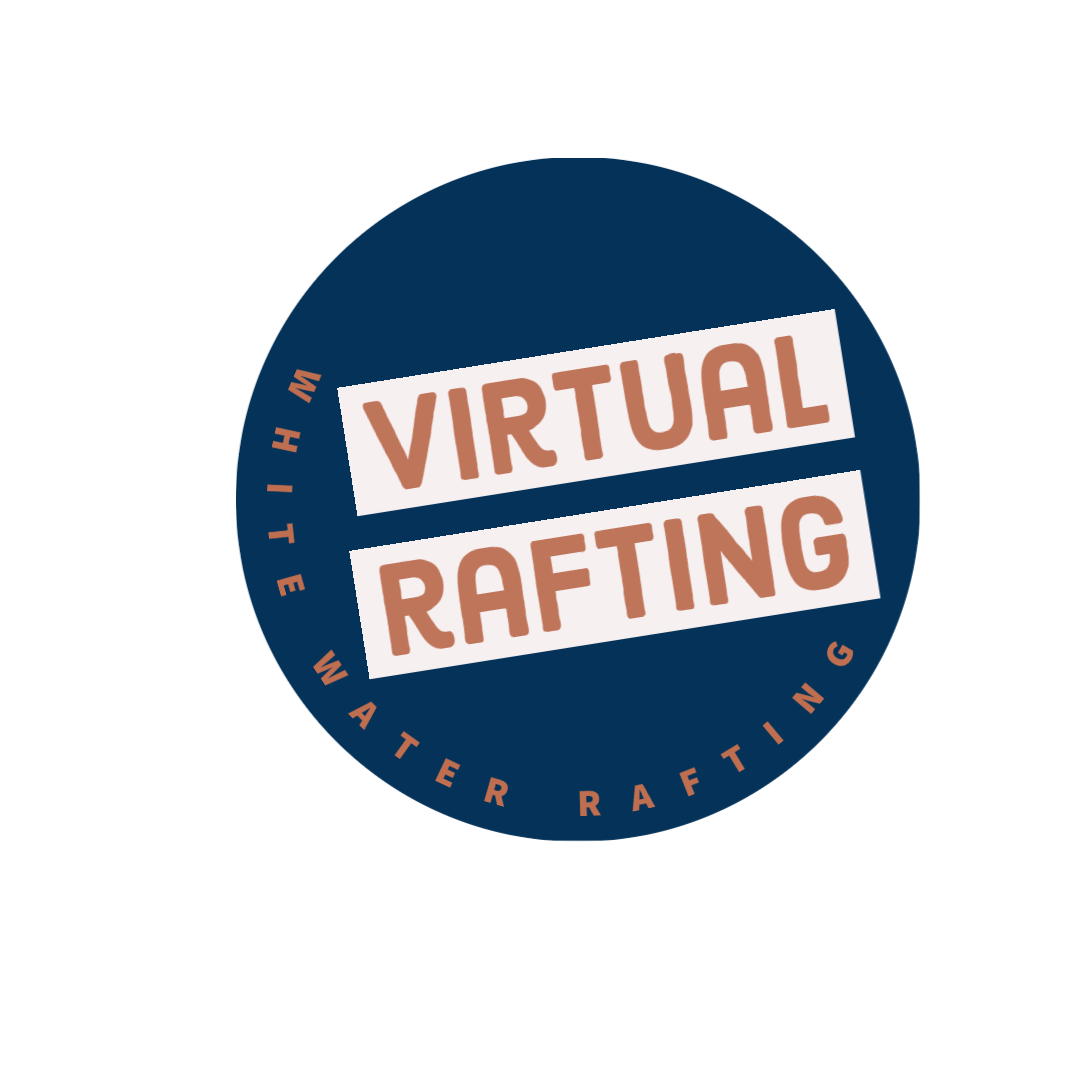
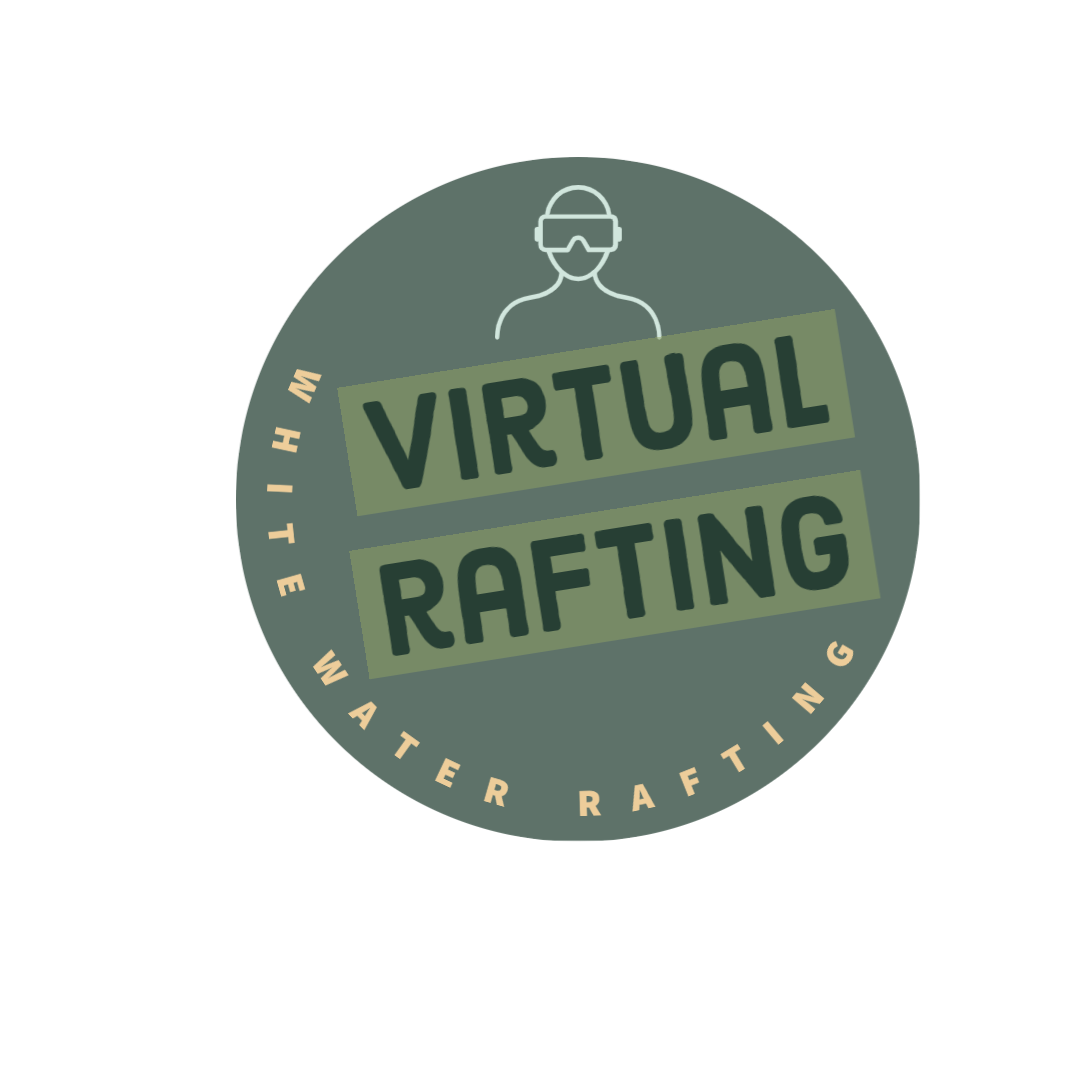
minor updates

diff --git a/wwr/site-plan-rafting.html b/wwr/site-plan-rafting.html
@@ -20,7 +20,7 @@
     <hr />
     <h2>Overview</h2>
     <h3>Purpose</h3>
-    <p>Our purpose is to seek out your inner explorer and setout on a beginner virtual "White Water Rafting Experience" all without the consequences!</p>
+    <p>Our purpose is to seek out your inner explorer and setout on a beginner virtual "White Water Rafting Experience" all without the risk!</p>
     <!-- change this -->
 
     <h3>Audience</h3>
@@ -48,8 +48,8 @@
     <!-- Copy and paste the URL to your finished palette below. Replace the href value that is there with yours. Make sure to paste it into both the href value and the content text of the <a> tag -->
     <p>Palette URL:</p>
     
-    <a href="https://coolors.co/bf755a-887a7e-bac0ca-000000-022d5d"
-      target="_blank">https://coolors.co/bf755a-887a7e-bac0ca-000000-022d5d</a>
+    <a href="https://coolors.co/d1e6dd-5e7269-c9d5ad-edcd9a-d76865"
+      target="_blank">https://coolors.co/d1e6dd-5e7269-c9d5ad-edcd9a-d76865</a>
 
     <table class="colors">
       <tr>
@@ -60,10 +60,10 @@
       </tr>
       <!-- Replace the numbers in the boxes below with your hex color codes. Then switch to the site-plan.css file and change your colors there as well. -->
       <tr>
-        <td class="primary">#022d5d</td>
-        <td class="secondary">#887a7e</td>
-        <td class="accent1">#bf755a</td>
-        <td class="accent2">#bac0ca</td>
+        <td class="primary">#D1E6DD</td>
+        <td class="secondary">#5E7269</td>
+        <td class="accent1">#D76865</td>
+        <td class="accent2">#EDCD9A</td>
       </tr>
     </table>
 
@@ -73,7 +73,7 @@
     <!-- Choose a font for your paragraphs (body copy) and headlines. What font(s) have you chosen? Think also about which of your colors above you might use for background and font colors. -->
 
     <h4>
-      Heading Font: Dangrek
+      Heading Font: Architects Daughter
       <!-- change this -->
     </h4>
     <h4>

diff --git a/wwr/styles/site-plan-rafting.css b/wwr/styles/site-plan-rafting.css
@@ -4,28 +4,29 @@ Any spaces in your font name should be replaced with a +.
 Fonts are separated by a & */
 @import url('https://fonts.googleapis.com/css2?family=Tiro+Tamil&display=swap');
 @import url('https://fonts.googleapis.com/css2?family=Dangrek&display=swap');
+@import url('https://fonts.googleapis.com/css2?family=Architects+Daughter&display=swap');
 :root {
   /* change the values below to your colors from your palette */
-  --primary-color: #022d5d   ;
-  --secondary-color: #887a7e ;
-  --accent1-color: #bf755a;
-  --accent2-color: #bac0ca;
+  --primary-color: #D1E6DD   ;
+  --secondary-color: #5E7269 ;
+  --accent1-color: #D76865;
+  --accent2-color: #EDCD9A;
 
   /* change the values below to your chosen font(s) */
-  --heading-font: "Dangrek";
+  --heading-font: "Architects Daughter";
   --paragraph-font: "Tiro Tamil";
   --nav-font: "Dangrek";
 
   /* these colors below should be chosen from among your palette colors above */
-  --headline-color-on-white: #022d5d;  /* headlines on a white background */ 
+  --headline-color-on-white: #5E7269;  /* headlines on a white background */ 
   --headline-color-on-color: white; /* headlines on a colored background */ 
-  --paragraph-color-on-white: #022d5d; /* paragraph text on a white background */ 
+  --paragraph-color-on-white: #5E7269; /* paragraph text on a white background */ 
   --paragraph-color-on-color: white; /* paragraph text on a colored background */ 
-  --paragraph-background-color: #022d5d  ;
-  --nav-link-color: #022d5d;
-  --nav-background-color: #887a7e;
+  --paragraph-background-color: #5E7269  ;
+  --nav-link-color: #5E7269;
+  --nav-background-color: #D1E6DD;
   --nav-hover-link-color: white;
-  --nav-hover-background-color: #022d5d;
+  --nav-hover-background-color: #5E7269;
 }
 
 
